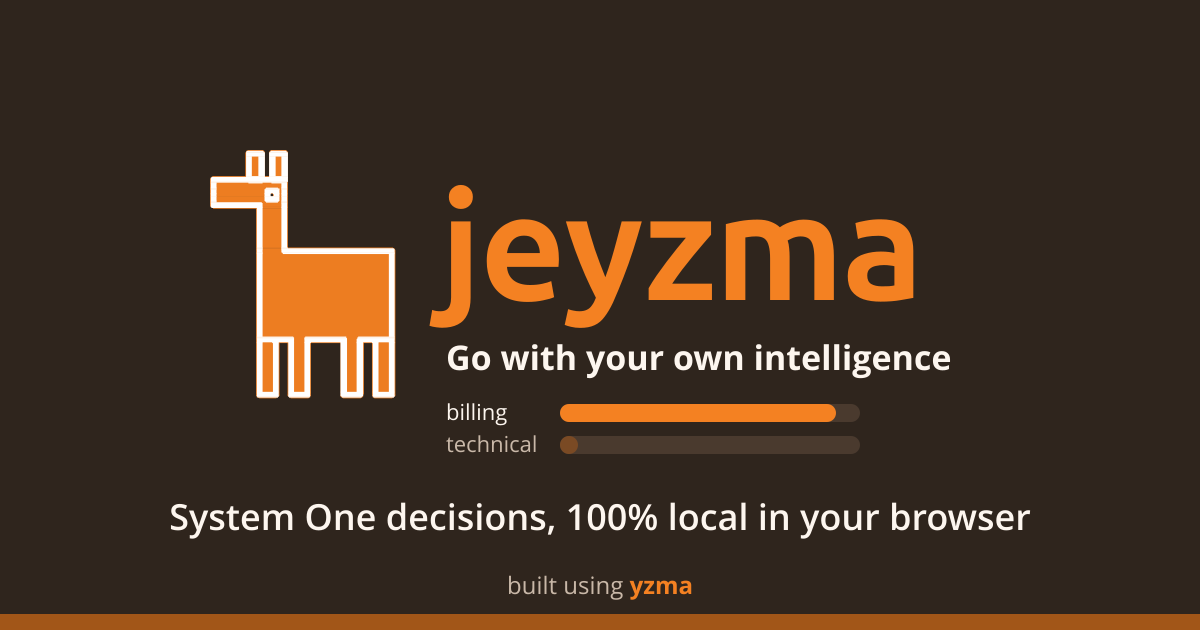
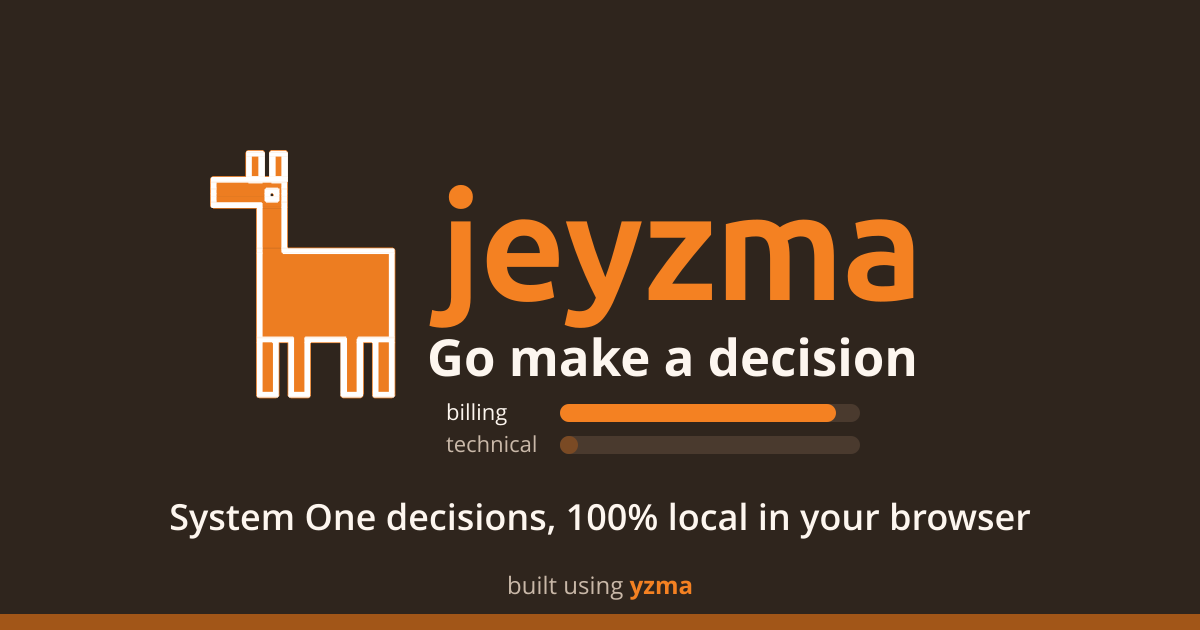
page: change the tagline to Go make a decision

Changed region(s): [[0.3392, 0.5429, 0.8017, 0.6032]]

diff --git a/web/index.html b/web/index.html
@@ -3,23 +3,23 @@
   <head>
     <meta charset="utf-8" />
     <meta name="viewport" content="width=device-width, initial-scale=1" />
-    <title>Jeyzma - Go with your own intelligence</title>
+    <title>Jeyzma - Go make a decision</title>
     <link rel="icon" href="yzma-icon.svg" type="image/svg+xml" />
     <meta name="description" content="System One decisions, 100% local in your browser. Typed questions with a probability for each option." />
 
     <!-- The link preview card for social sites. -->
     <meta property="og:type" content="website" />
     <meta property="og:site_name" content="Jeyzma" />
-    <meta property="og:title" content="Jeyzma - Go with your own intelligence" />
-    <meta property="og:description" content="Go with your own intelligence. System One decisions, 100% local in your browser." />
+    <meta property="og:title" content="Jeyzma - Go make a decision" />
+    <meta property="og:description" content="Go make a decision. System One decisions, 100% local in your browser." />
     <meta property="og:url" content="https://jeyzma.com/" />
     <meta property="og:image" content="https://jeyzma.com/social-card.png" />
     <meta property="og:image:width" content="1200" />
     <meta property="og:image:height" content="630" />
-    <meta property="og:image:alt" content="Jeyzma, Go with your own intelligence" />
+    <meta property="og:image:alt" content="Jeyzma, Go make a decision" />
     <meta name="twitter:card" content="summary_large_image" />
-    <meta name="twitter:title" content="Jeyzma - Go with your own intelligence" />
-    <meta name="twitter:description" content="Go with your own intelligence. System One decisions, 100% local in your browser." />
+    <meta name="twitter:title" content="Jeyzma - Go make a decision" />
+    <meta name="twitter:description" content="Go make a decision. System One decisions, 100% local in your browser." />
     <meta name="twitter:image" content="https://jeyzma.com/social-card.png" />
 
     <!-- GitHub Pages cannot send the COOP and COEP headers, so the page gets
